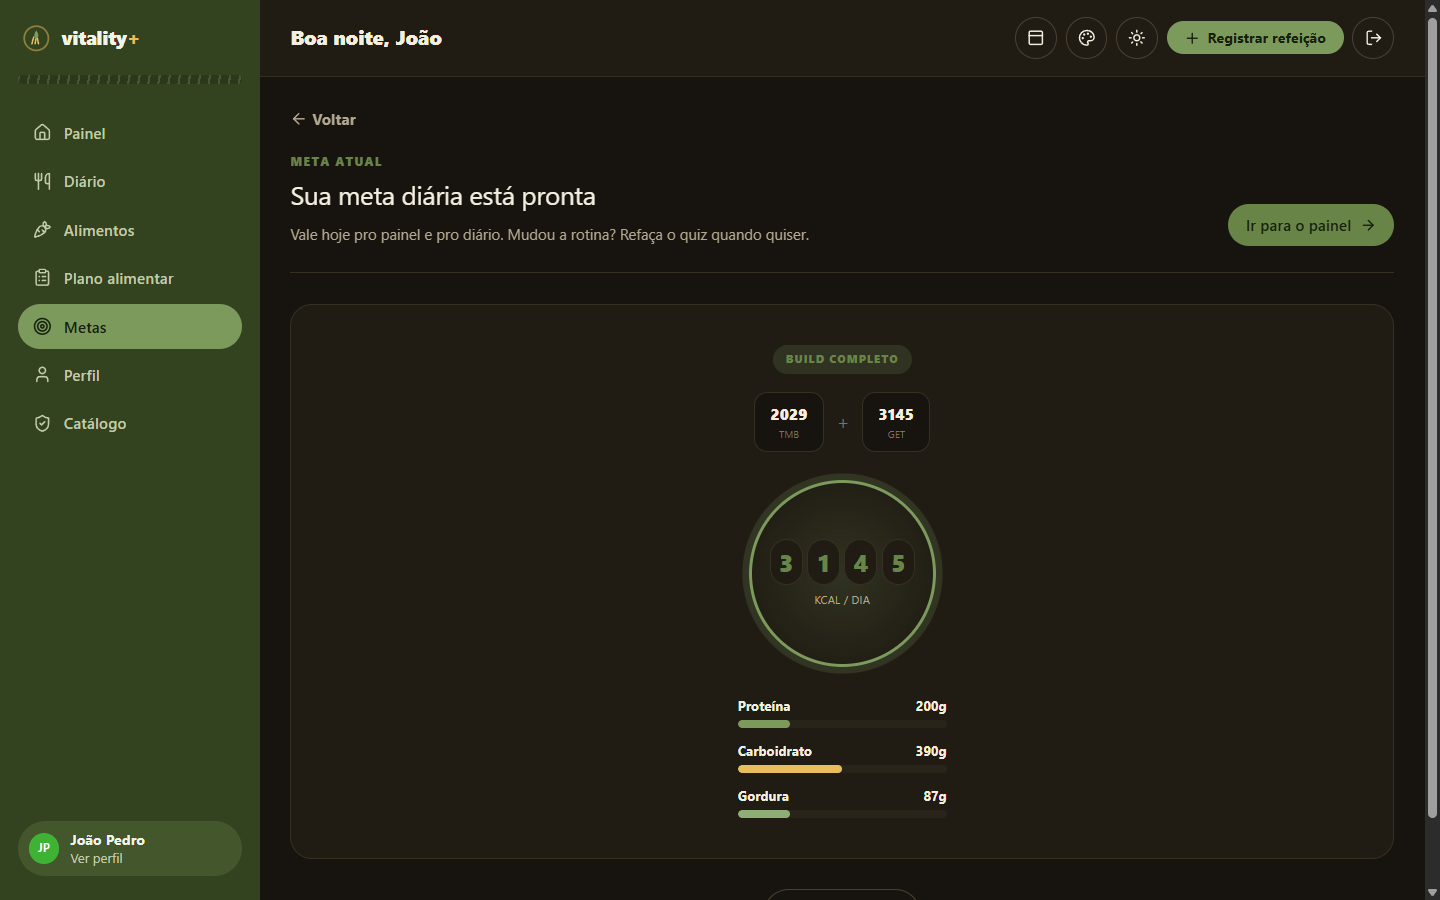
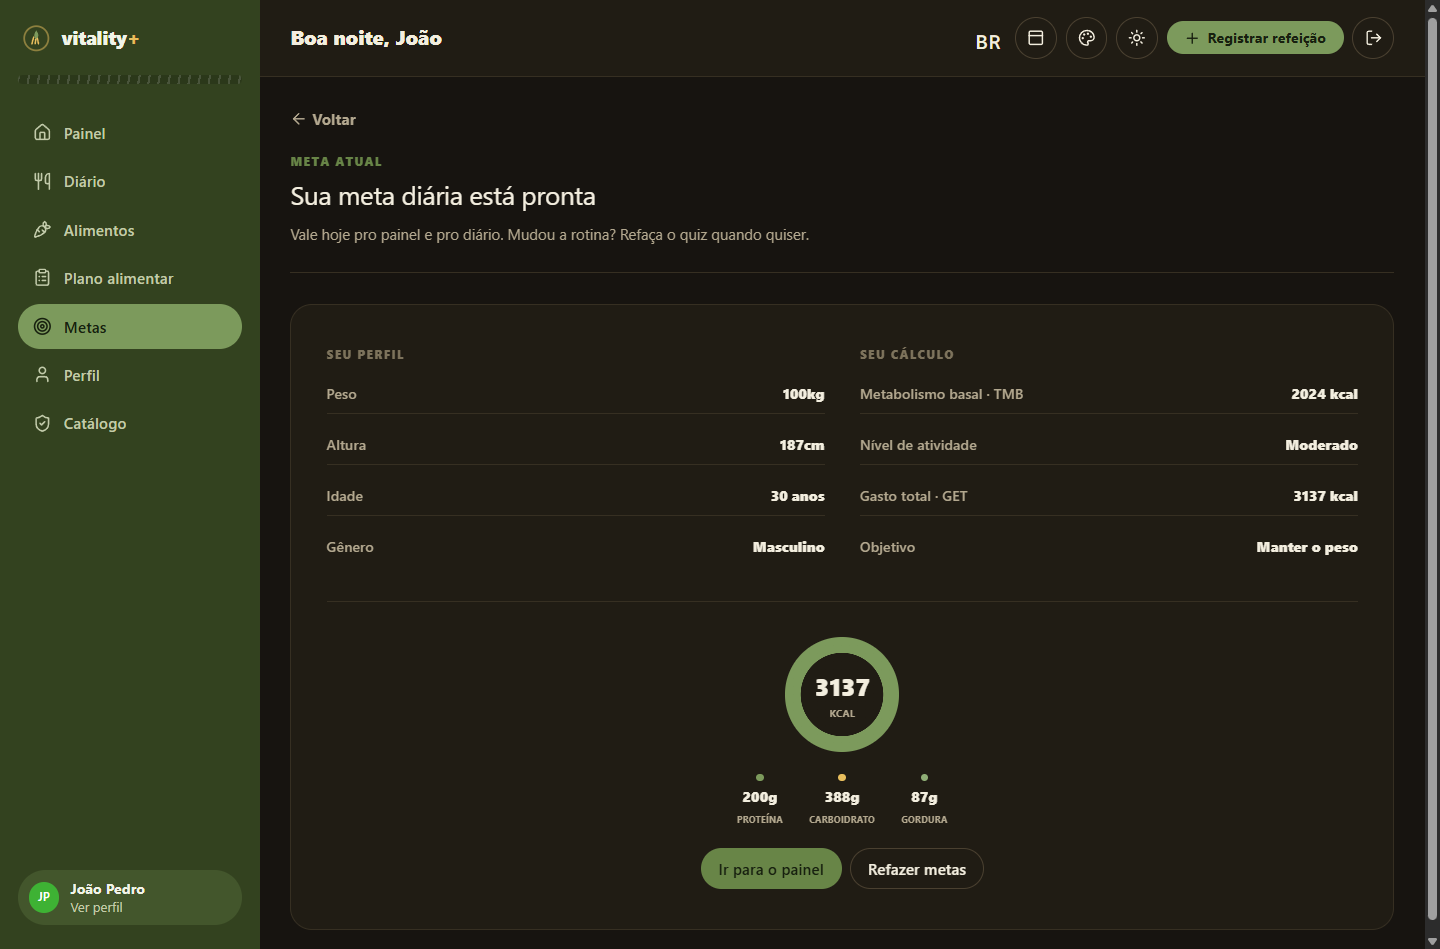
Refactor code structure for improved readability and maintainability

diff --git a/README.md b/README.md
@@ -48,11 +48,29 @@ rotina e objetivo → sugestão calculada → confirmação), com a identidade d
 verdade: cartões tocáveis, revelação animada do resultado, trilha de progresso navegável a
 qualquer momento. O cálculo usa a fórmula de Mifflin-St Jeor (TMB) mais fator de atividade — a
 mesma base científica usada por nutricionistas, sem exigir que o usuário saiba o que isso
-significa.
+significa. Meta configurada vira uma **ficha em duas colunas** — perfil de um lado, o cálculo
+(TMB → GET → meta) do outro — com o anel de calorias e os macros contando de verdade até o valor
+final, não só aparecendo prontos.
 
 </td>
 <td width="50%" valign="top">
-<img src="docs/screenshots/metas.png" alt="Tela de metas do Vitality PLUS — revelação animada da meta calórica e de macros">
+<img src="docs/screenshots/metas.png" alt="Tela de metas do Vitality PLUS — ficha em duas colunas com perfil, cálculo e anel de macros">
+</td>
+</tr>
+<tr>
+<td width="50%" valign="top">
+
+### 📊 Painel
+
+A tela inicial resume o dia num relance: anel de calorias consumidas, a próxima refeição sugerida
+pelo plano ativo (com o horário no centro de um segundo anel e os alimentos sugeridos em chips), a
+trilha do dia com as cinco refeições e seus horários, e um bloco de progressão — nível, XP e
+missões diárias/semanais que se completam sozinhas conforme o uso real do diário, sem precisar de
+nenhuma ação extra.
+
+</td>
+<td width="50%" valign="top">
+<img src="docs/screenshots/dashboard.png" alt="Painel do Vitality PLUS — anel de calorias, próxima missão com anel de horário, trilha do dia e missões">
 </td>
 </tr>
 <tr>
@@ -92,13 +110,14 @@ quiser sem remontar a lista do zero, e pronto pra virar sugestão dentro do Diá
 - 🍽 **Diário alimentar** — uma jornada diária de checkpoints: registra refeições num mini-quiz de
   momento → prato → porções, compara com a meta e mantém o histórico editável (screenshot no topo
   da página).
-- 📊 **Painel de acompanhamento** — meta vs. consumido, num relance.
 - 👤 **Perfil em etapas** — identidade e avatar → corpo → rotina e confirmação. Cada avanço é salvo
   imediatamente, reduzindo perda de dados e mantendo a meta alinhada ao perfil atual.
+- 🌐 **Bilíngue de verdade** — português e inglês, trocados em tempo real (sem recarregar a
+  página) direto pela topbar.
 
 Áreas com ✅ já implementadas e testadas ponta a ponta contra o backend real: autenticação, quiz de
-metas/recomendação nutricional, perfil completo (dados pessoais, rotina e avatar) e Diário Alimentar.
-Dietas e dashboard seguem em desenvolvimento incremental.
+metas/recomendação nutricional, painel/dashboard, perfil completo (dados pessoais, rotina e avatar)
+e Diário Alimentar. Dietas segue em desenvolvimento incremental.
 
 ## Identidade visual
 
